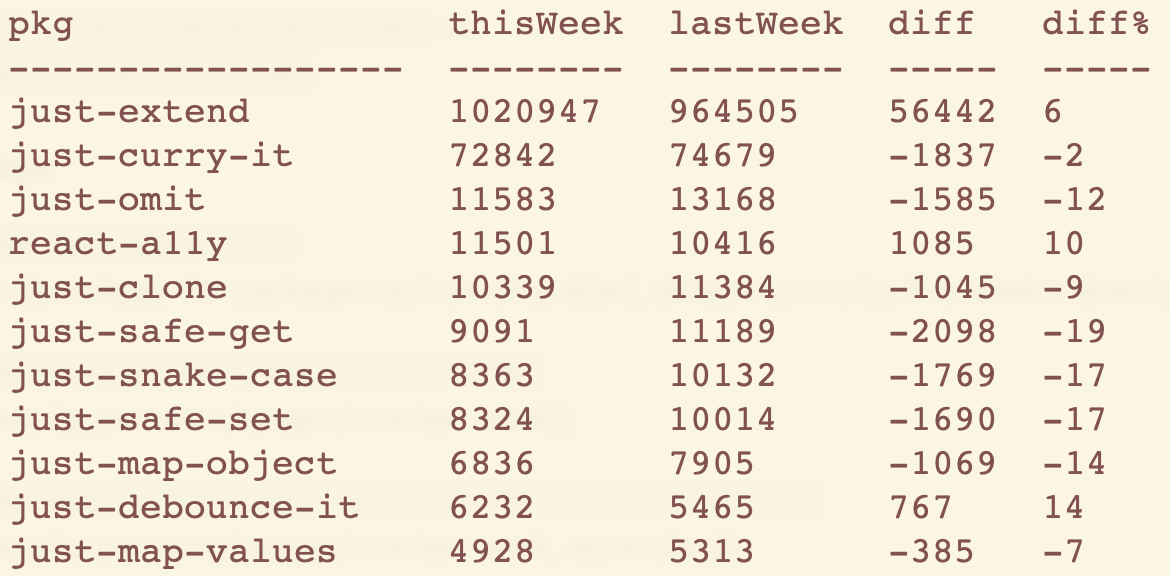
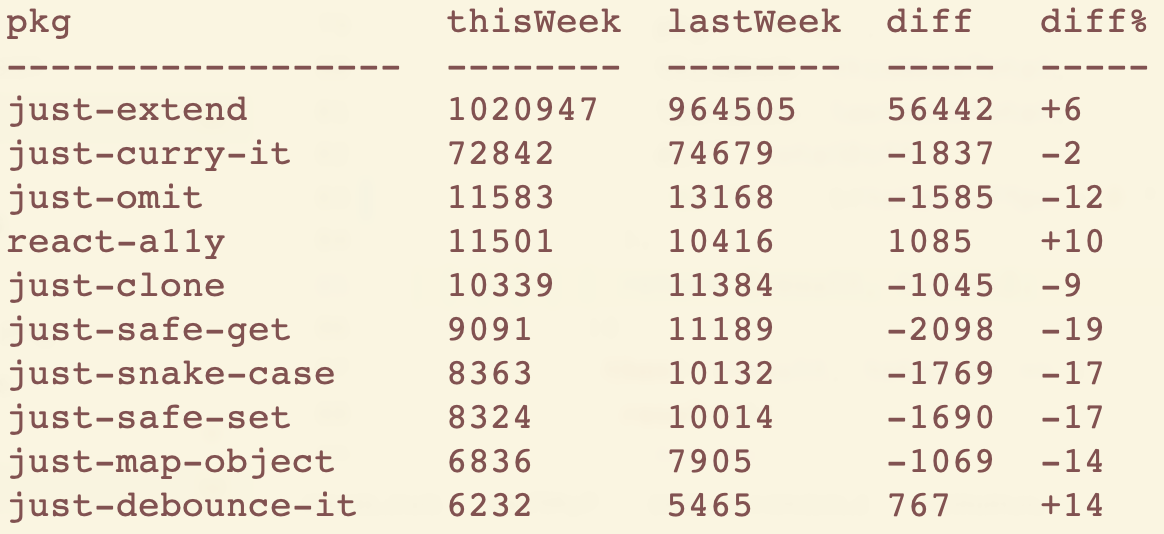
README, API

diff --git a/src/api.js b/src/api.js
@@ -64,21 +64,23 @@ module.exports = function({ searchMask, sortBy, direction }) {
               thisWeekTotal += thisWeek;
               lastWeekTotal += lastWeek;
               const diff = thisWeek - lastWeek;
+              const diffpc = Math.round(100 * (diff / lastWeek));
               return {
                 pkg,
                 thisWeek,
                 lastWeek,
                 diff,
-                'diff%': Math.round(100 * (diff / lastWeek))
+                'diff%': `${diffpc > 0 ? '+' : ''}${diffpc}`
               };
             });
             const totalDiff = thisWeekTotal - lastWeekTotal;
+            const totalDiffpc = Math.round(100 * (totalDiff / lastWeekTotal));
             const totals = {
               pkg: 'TOTAL',
               thisWeek: thisWeekTotal,
               lastWeek: lastWeekTotal,
               diff: totalDiff,
-              'diff%': Math.round(100 * (totalDiff / lastWeekTotal))
+              'diff%': `${totalDiffpc > 0 ? '+' : ''}${totalDiffpc}`
             };
             return [result, totals];
           })

diff --git a/README.md b/README.md
@@ -5,7 +5,7 @@ Use as a CLI or an in-program API
 
 ## CLI
 
-<img src="images/cli-example.png" width="300"/>
+<img src="images/cli-example.png" width="500"/>
 
 ### args
 
@@ -73,3 +73,11 @@ import downloads from 'my-downloads'
 // returns {totals, details}
 downloads('author:jed', 'diff%', 'up');\
 ```
+
+#### return values
+
+`totals`: the totals for all listed packages\
+object with properties `pkg` (string), `thisWeek` (number), `lastWeek` (number), `diff` (number), `diff%` (number).
+
+`details`: the details for all listed packages\
+array of objects with properties `pkg` (string), `thisWeek` (number), `lastWeek` (number), `diff` (number), `diff%` (number).
